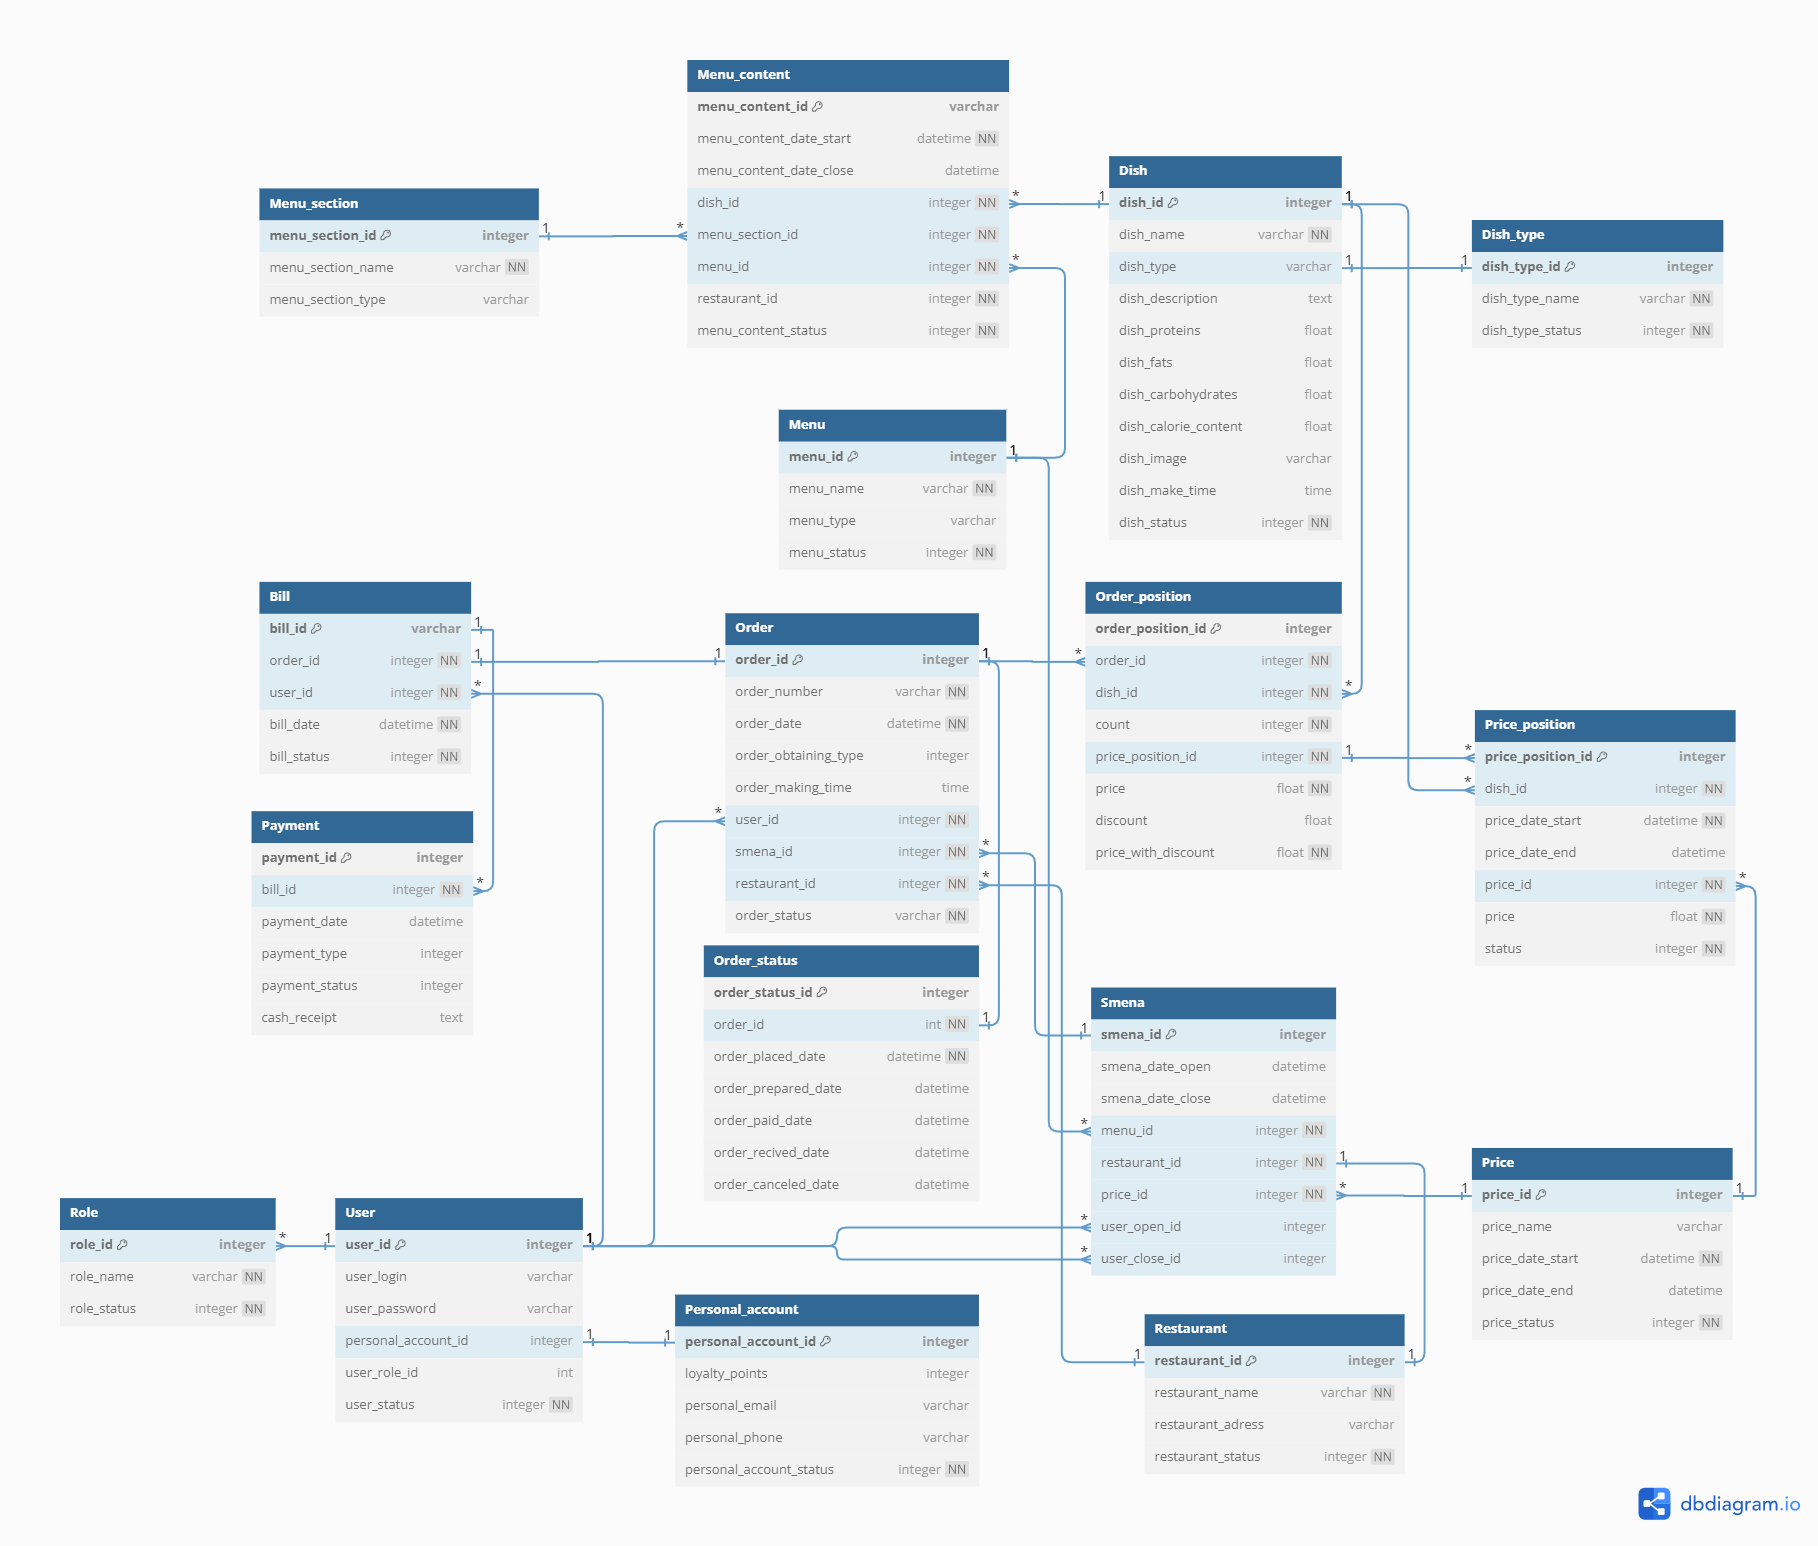
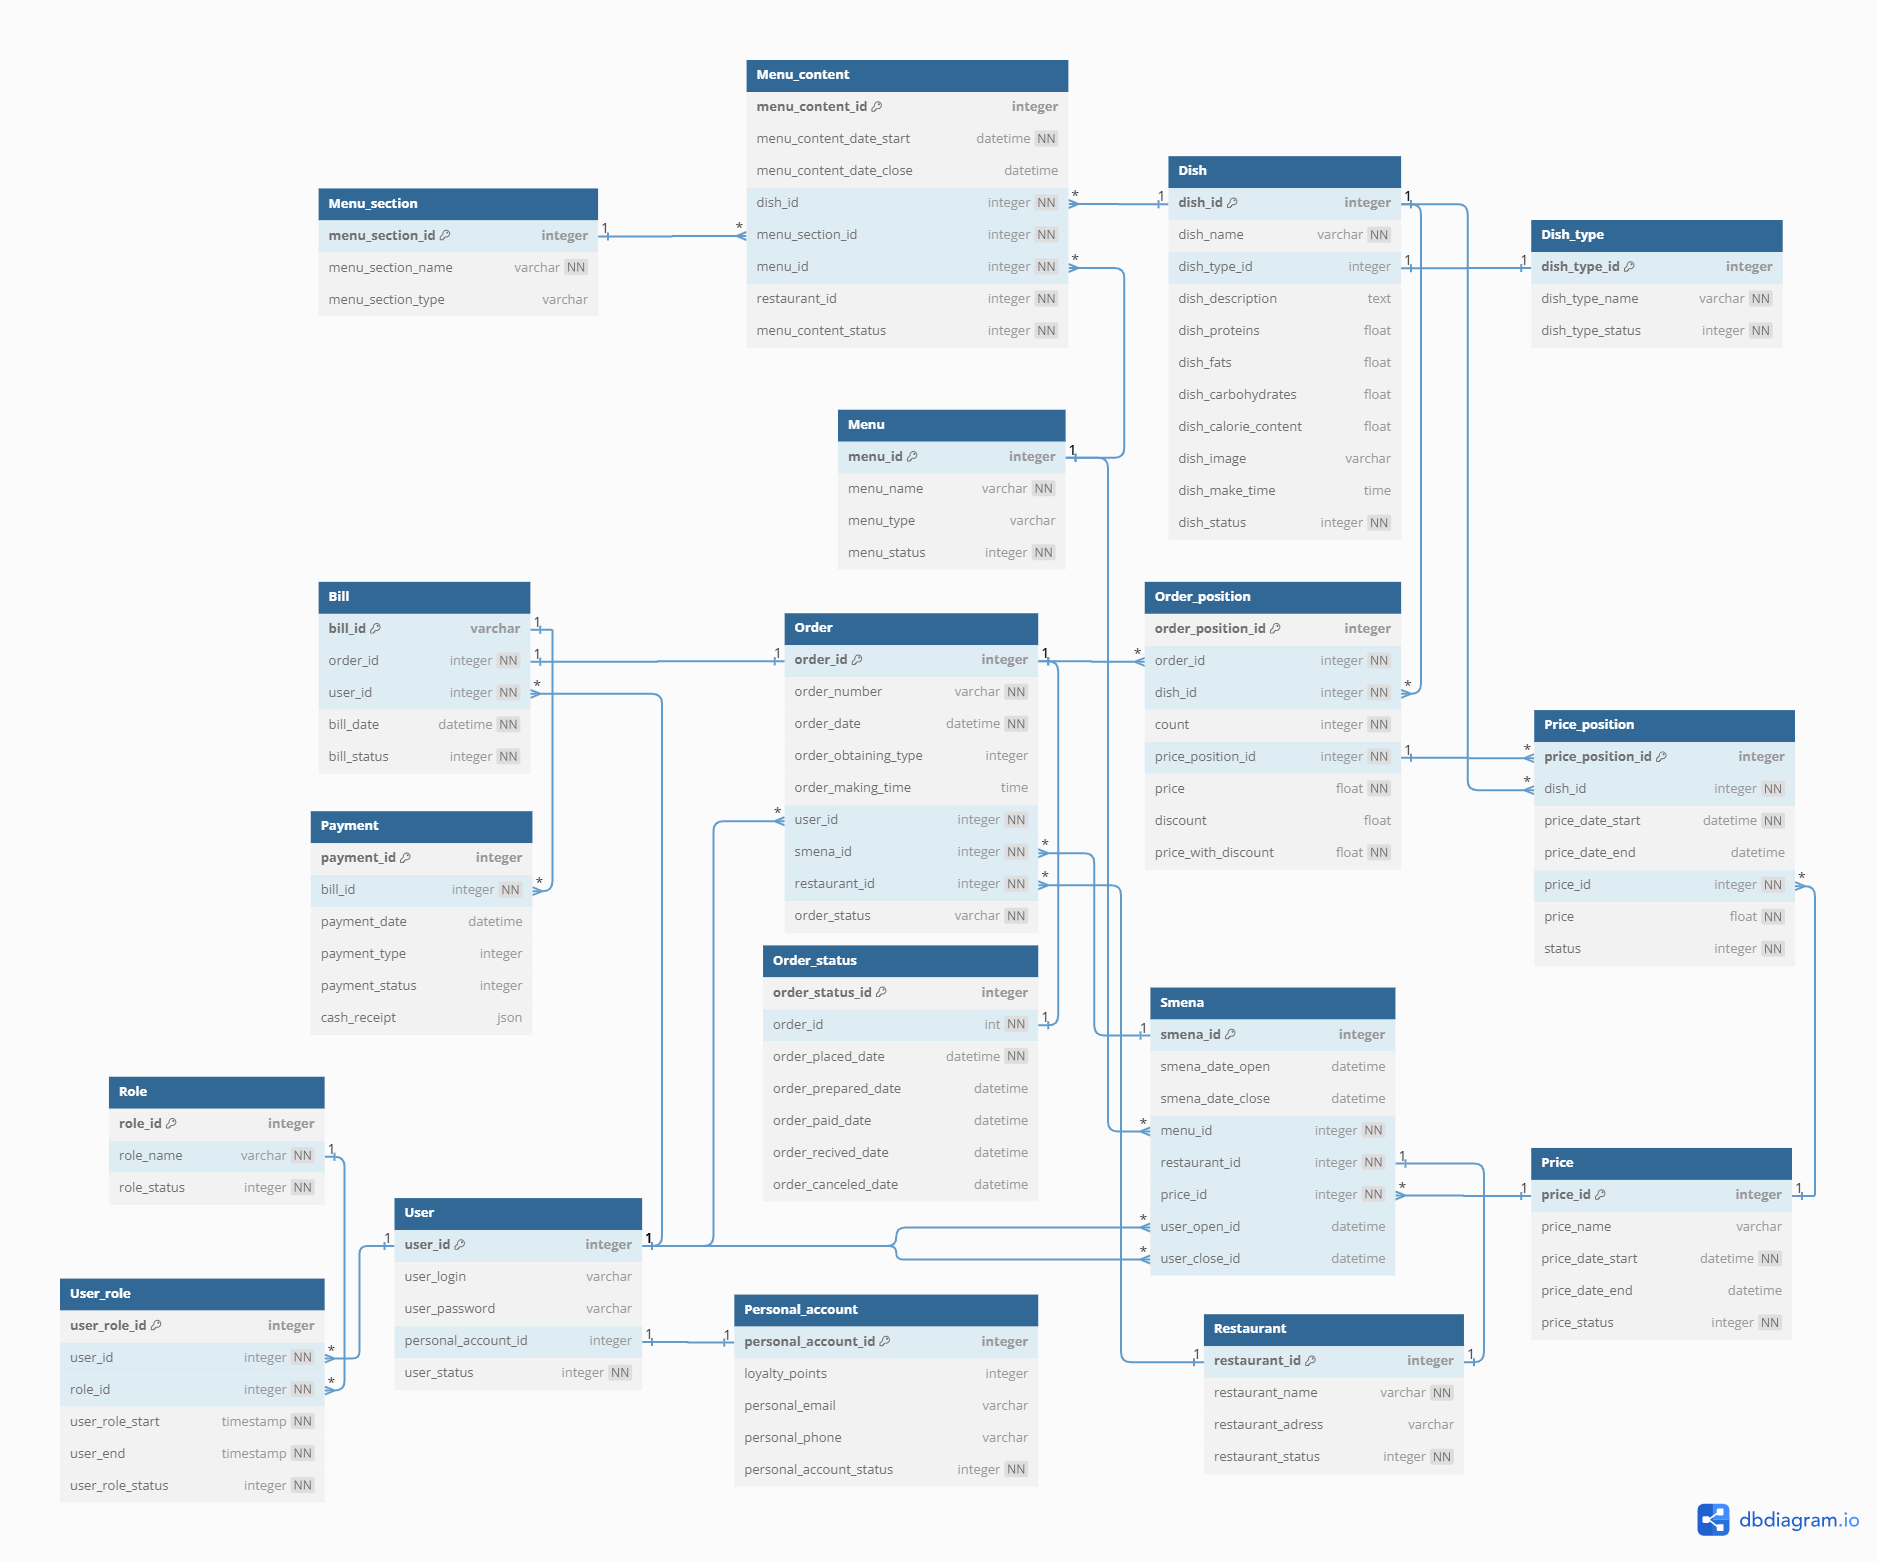
db_spec_added

diff --git a/docs/model.md b/docs/model.md
@@ -7,3 +7,140 @@
 ## Модель данных
 
 ![file](images/Database_schema_robot.png)
+
+## Спецификация модели данных
+
+### Объекты базы данных
+
+| № | Наименование | Назначение объекта | Тип объекта |
+| - | --- | --- | --- |
+| 1 | User | Пользователи системы | Таблица |
+| 2 | Personal_account | Личный кабинет зарегистрированных пользователей | Таблица |
+| 3 | Role | Роли пользователей | Таблица |
+| 4 | User_role | Связь пользователей и ролей | Таблица |
+| 5 | Restaurant | Справочник ресторанов | Таблица |
+| 6 | Order | Таблица заказов | Таблица |
+| 7 | Order_status | Таблица статусов заказа | Таблица |
+| 8 | Order_position | Состав заказа | Таблица |
+| 9 | Dish | Каталог блюд | Таблица |
+| 10 | Dish_type | Справочник типов блюд | Таблица |
+| 11 | Menu | Справочник меню | Таблица |
+| 12 | Menu_section | Разделы меню | Таблица |
+| 13 | Menu_content | Содержимое раздела меню | Таблица |
+| 14 | Price | Справочник прейскурантов | Таблица |
+| 15 | Price_position | Позиции прейскуранта | Таблица |
+| 16 | Bill | Счета на оплату | Таблица |
+| 17 | Payment | Платежи | Таблица |
+| 18 | Smena | Торговые дни | Таблица |
+
+### Поля таблиц
+
+| Таблица | Поле | Тип данных | Комментарий |
+| - | --- | --- | --- |
+| User | user_id | integer | Уникальный идентификатор |
+| User | user_login | varchar | Логин пользователя |
+| User | user_password | varchar | Пароль пользователя |
+| User | personal_account_id | integer | Связь с таблицей личного кабинета пользователя |
+| User | user_status | integer | Сатус записи: 0 активна, 99 не активна |
+| Personal_account | personal_account_id | integer | Уникальный идентификатор |
+| Personal_account | loyalty_points | integer | Баллы лояльности |
+| Personal_account | personal_email | varchar | Адрес электронной почты |
+| Personal_account | personal_phone | varchar | Телефон |
+| Personal_account | personal_account_status | integer | Сатус записи: 0 активна, 99 не активна |
+| Role | role_id | integer | Уникальный идентификатор |
+| Role | role_name | varchar | Название роли |
+| Role | role_status | integer | Сатус записи: 0 активна, 99 не активна |
+| User_role | user_role_id | integer | Уникальный идентификатор |
+| User_role | user_id | integer | Связь с таблицей пользователей |
+| User_role | role_id | integer | Связь с таблицей ролей |
+| User_role | user_role_start | timestamp | Начало действия роли |
+| User_role | user_end timestamp | timestamp | Завершение действия роли |
+| User_role | user_role_status | integer | Сатус записи: 0 активна, 99 не активна |
+| Order | order_id | integer | Уникальный идентификатор |
+| Order | order_number | varchar | Номер заказа |
+| Order | order_date | timestamp | Дата заказа |
+| Order | order_obtaining_type | integer | Способ получения заказа, 1 - с собой, 2 - в зале |
+| Order | order_making_time | time | Расчётное время приготовления заказа |
+| Order | user_id | integer | Связь с таблицей пользователей |
+| Order | smena_id | integer | Связь с таблицей торгового дня |
+| Order | restaurant_id | integer | Связь с таблицей ресторанов |
+| Order | order_status | varchar | Сатус записи: 0 активна, 99 не активна |
+| Order_status | order_status_id | integer | Уникальный идентификатор |
+| Order_status | order_id | integer | Связь с таблицей заказов |
+| Order_status | order_placed_date | timestamp | Дата и время размещения заказа |
+| Order_status | order_prepared_date | timestamp | Дата и время завершения приготовления заказа |
+| Order_status | order_paid_date | timestamp | Дата и время оплаты заказа |
+| Order_status | order_recived_date | timestamp | Дата и время получения заказа |
+| Order_status | order_canceled_date | timestamp | Дата и время отмены заказа |
+| Order_position | order_position_id | integer | Уникальный идентификатор |
+| Order_position | order_id | integer | Связь с таблицей заказов |
+| Order_position | dish_id | integer | Связь с таблицей каталога блюд |
+| Order_position | count | integer | Количество |
+| Order_position | price_position_id | integer | Связь с таблицей позиций прейскуранта |
+| Order_position | price | float | Цена |
+| Order_position | discount | float | Скидка |
+| Order_position | price_with_discount | float | Цена со скидкой |
+| Restaurant | restaurant_id | integer | Уникальный идентификатор |
+| Restaurant | restaurant_name | varchar | Название ресторана |
+| Restaurant | restaurant_adress | varchar | Адрес ресторана |
+| Restaurant | restaurant_status | integer | Сатус записи: 0 активна, 99 не активна |
+| Dish | dish_id | integer | Уникальный идентификатор |
+| Dish | dish_name | varchar | Название блюда |
+| Dish | dish_type_id | integer | Связь с таблицей типов блюд |
+| Dish | dish_description | text | Описание блюда |
+| Dish | dish_proteins | float | Белки |
+| Dish | dish_fats | float | Жиры |
+| Dish | dish_carbohydrates | float | Углеводы |
+| Dish | dish_calorie_content | float | Общая каллорийность |
+| Dish | dish_image | varchar | Ссылка на изображение блюда |
+| Dish | dish_make_time | time | Нормативное время приготовления блюда |
+| Dish | dish_status | integer | Сатус записи: 0 активна, 99 не активна |
+| Dish_type | dish_type_id integer [primary key] | integer | Уникальный идентификатор |
+| Dish_type | dish_type_name | varchar | Название типа блюда |
+| Dish_type | dish_type_status | integer | Сатус записи: 0 активна, 99 не активна |
+| Menu | menu_id | integer | Уникальный идентификатор |
+| Menu | menu_name | varchar | Название меню |
+| Menu | menu_type | varchar | Тип меню |
+| Menu | menu_status | integer | Сатус записи: 0 активна, 99 не активна |
+| Menu_section | menu_section_id | integer | Уникальный идентификатор |
+| Menu_section | menu_section_name | varchar | Название раздела меню |
+| Menu_section | menu_section_type | varchar | Тип раздела меню |
+| Menu_content | menu_content_id | integer | Уникальный идентификатор |
+| Menu_content | menu_content_date_start | timestamp | Дата начала действия позиции меню |
+| Menu_content | menu_content_date_close | timestamp | Дата окончания действия позиции меню |
+| Menu_content | dish_id | integer | Связь с таблицей блюд |
+| Menu_content | menu_section_id | integer | Связь с таблицей разделов меню |
+| Menu_content | menu_id | integer | Связь с таблицей меню |
+| Menu_content | restaurant_id | integer | Связь с таблицей ресторанов |
+| Menu_content | menu_content_status | integer | Сатус записи: 0 активна, 99 не активна |
+| Price | price_id | integer | Уникальный идентификатор |
+| Price | price_name | varchar | Название прейскуранта |
+| Price | price_date_start | timestamp | Дата начала действия прейскуранта |
+| Price | price_date_end | timestamp | Дата окончания действия прейскуранта |
+| Price | price_status | integer | Сатус записи: 0 активна, 99 не активна |
+| Price_position | price_position_id | integer | Уникальный идентификатор |
+| Price_position | dish_id | integer | Связь с таблицей каталога блюд |
+| Price_position | price_date_start | timestamp | Дата начала действия цены |
+| Price_position | price_date_end | timestamp | Дата окончания действия цены |
+| Price_position | price_id | integer | Связь с таблицей прейскурантов |
+| Price_position | price | float | Цена |
+| Price_position | status | integer | Сатус записи: 0 активна, 99 не активна |
+| Bill | bill_id | varchar | Уникальный идентификатор |
+| Bill | order_id | integer | Связь с таблицей заказов |
+| Bill | user_id | integer | Связь с таблицей пользователей |
+| Bill | bill_date | timestamp | Дата счёта |
+| Bill | bill_status | integer | Сатус записи: 0 активна, 99 не активна |
+| Payment | payment_id | integer | Уникальный идентификатор |
+| Payment | bill_id | integer | Связь с таблицей счетов |
+| Payment | payment_date | timestamp | Дата платежа |
+| Payment | payment_type | integer | Тип платежа: 1 - по карте, 2 - СПБ |
+| Payment | payment_status | integer | Статус платежа: 0 - не проведён, 1 - проведён, 2 - отклонён, 3 - инициирован |
+| Payment | cash_receipt | json | Структурированный текст для формирования чека |
+| Smena | smena_id | integer | Уникальный идентификатор |
+| Smena | smena_date_open | timestamp | Дата открытия торгового дня |
+| Smena | smena_date_close | timestamp | Дата закрытия торгового дня |
+| Smena | menu_id | integer | Меню действующее в текущем торговом дне |
+| Smena | restaurant_id | integer | Связь с таблицей ресторанов |
+| Smena | price_id | integer | Прейскурант, действующий в текущем торговом дне |
+| Smena | user_open_id | integer | Пользователь, открывший торговый день |
+| Smena | user_close_id | integer | Пользователь, закрывший торговый день |
